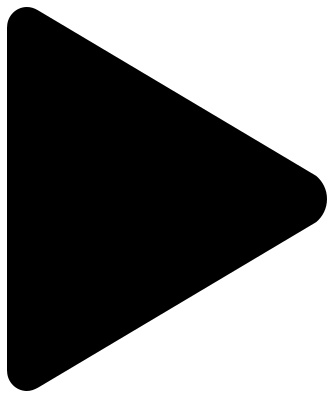
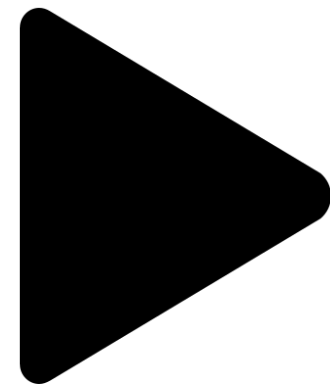
fix spacing issue with pause/play button

diff --git a/frontend/src/Components/MusicPlayer.tsx b/frontend/src/Components/MusicPlayer.tsx
@@ -39,7 +39,7 @@ function MusicPlayer() {
                 <img  src="/images/Shuffle.svg" alt="play" className='w-[28px] h-[28px] p-1.5 mt-0.5  object-cover hover:cursor-pointer hidden md:block' />
                 <img  src="/images/Forward.svg" alt="play" className='w-[28px] h-[28px] p-1.5 mt-0.5 object-cover rotate-180 hover:cursor-pointer hidden sm:block' />
                 <a className='flex justify-center content-center w-[40px] h-[40px] md:w-[31px] md:h-[31px]  bg-white rounded-full min-w-fit'>
-                  <img  src={playing} alt="play" onClick={playPause} className='p-[10px] md:p-[7px] object-cover hover:cursor-pointer' />
+                  <img  src={playing} alt="play" onClick={playPause} className='p-[10px] md:p-[8px] md:pl-[9px] object-cover hover:cursor-pointer' />
                 </a>
                 <img  src="/images/Forward.svg" alt="play" className='w-[28px] h-[28px] p-1.5 mt-0.5 object-cover hover:cursor-pointer hidden sm:block' />
                 <img  src="/images/Repeat.svg" alt="play" className='w-[28px] h-[28px] p-1.5 mt-0.5 object-cover hover:cursor-pointer hidden md:block' />
